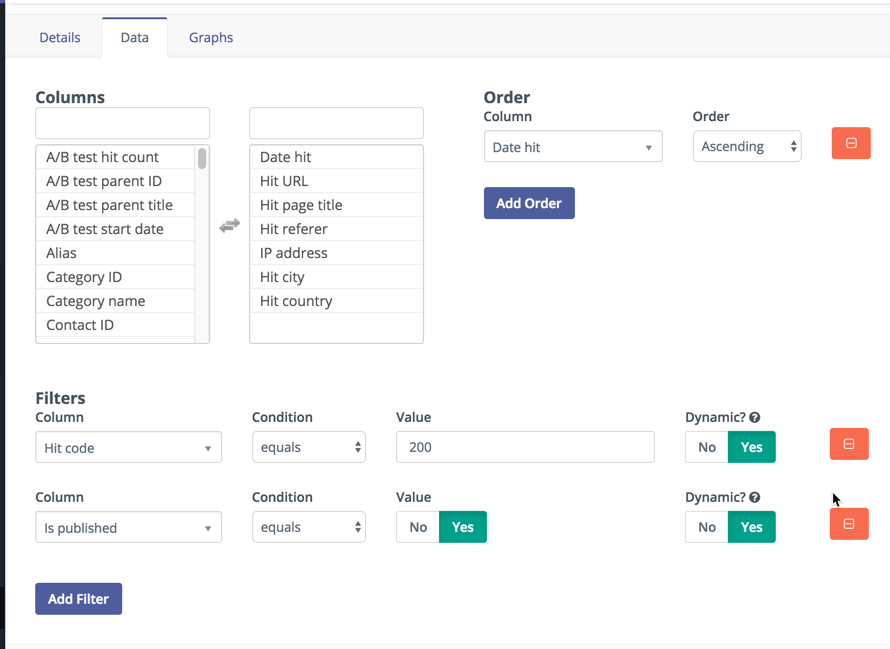
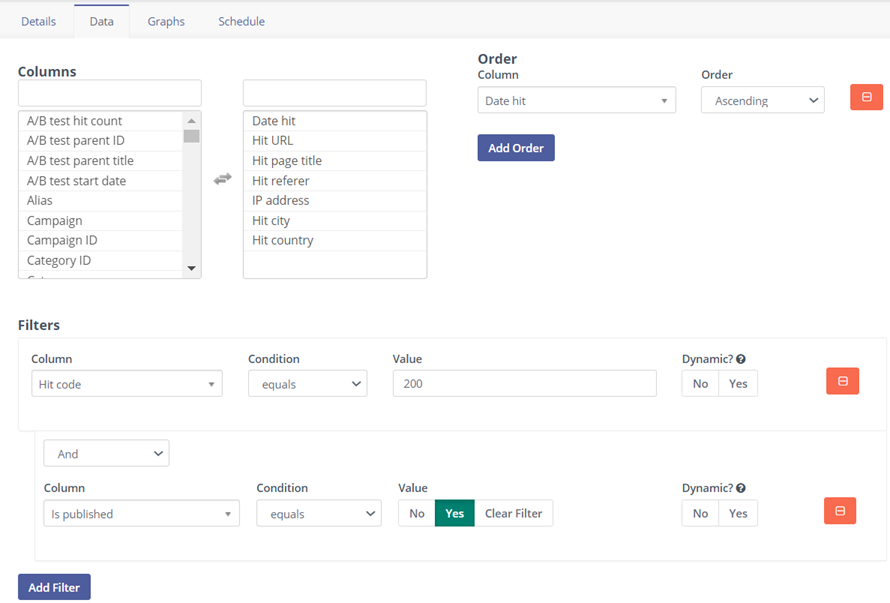
Updated Reports page to add info about scheduled sending of reports #65

diff --git a/pages/15.Reports/docs.en.md b/pages/15.Reports/docs.en.md
@@ -16,14 +16,14 @@ Highly customizable reports can be generated through Mautic's Report menu.
 ## Data Sources
 
 Choose the data source appropriate to the report you want. Each data source has a different set of available columns, filters and graphs.
- 
+
 ![](data-source.png)
 
 ## Configuration
 
 Each report can be customized to include the columns of choice. Filter data based on set criteria and/or set a specific order for the data.
 In addition you can also group by and select different function operators to calculate fields. Note that when you select functions operators a totals row will be added to the report. This totals row will not be exported when selecting to export a report.
- 
+
 ![](config.png)
 
 ## Graphs
@@ -34,6 +34,16 @@ Some reports have graphs available. Select the graph desired from the left list 
 
 ## Dashboard Widget
 
-Each graph of each report is made available as a widget on the dashboard allowing complete customization of the dashboard. 
- 
+Each graph of each report is made available as a widget on the dashboard allowing complete customization of the dashboard.
+
 ![](widget.png)
+
+## Schedule
+
+Enable or disable sending reports via emails by using the toggle switch. You can schedule emails to send reports to one or more email address. In the To field, enter a comma-separated list of email addresses and set the frequency of sending reports by choosing day, week, or month from the drop-down list. To be able to schedule emails to send reports, run the command:
+
+```
+php /path/to/mautic/app/console mautic:reports:scheduler [--report=ID]
+```
+
+![](schedule.png)
